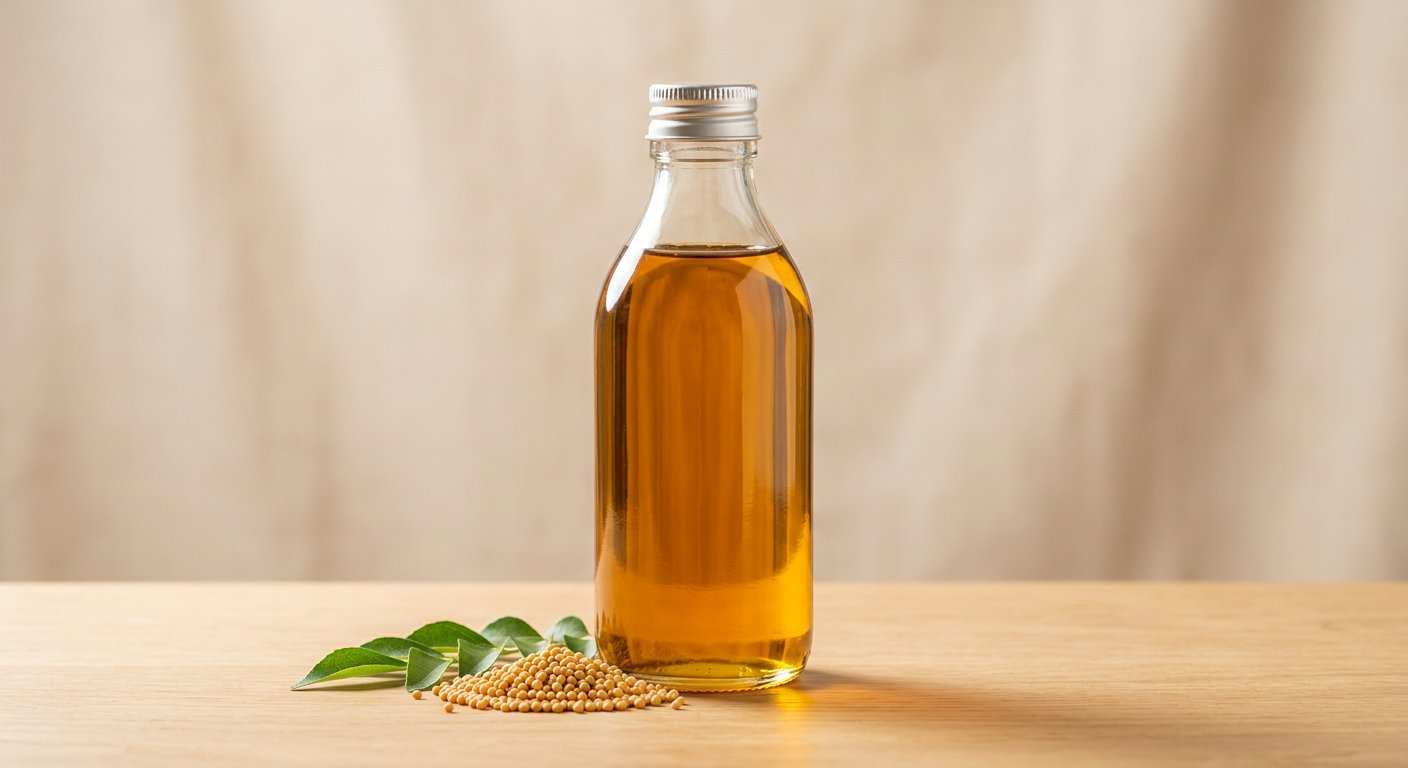
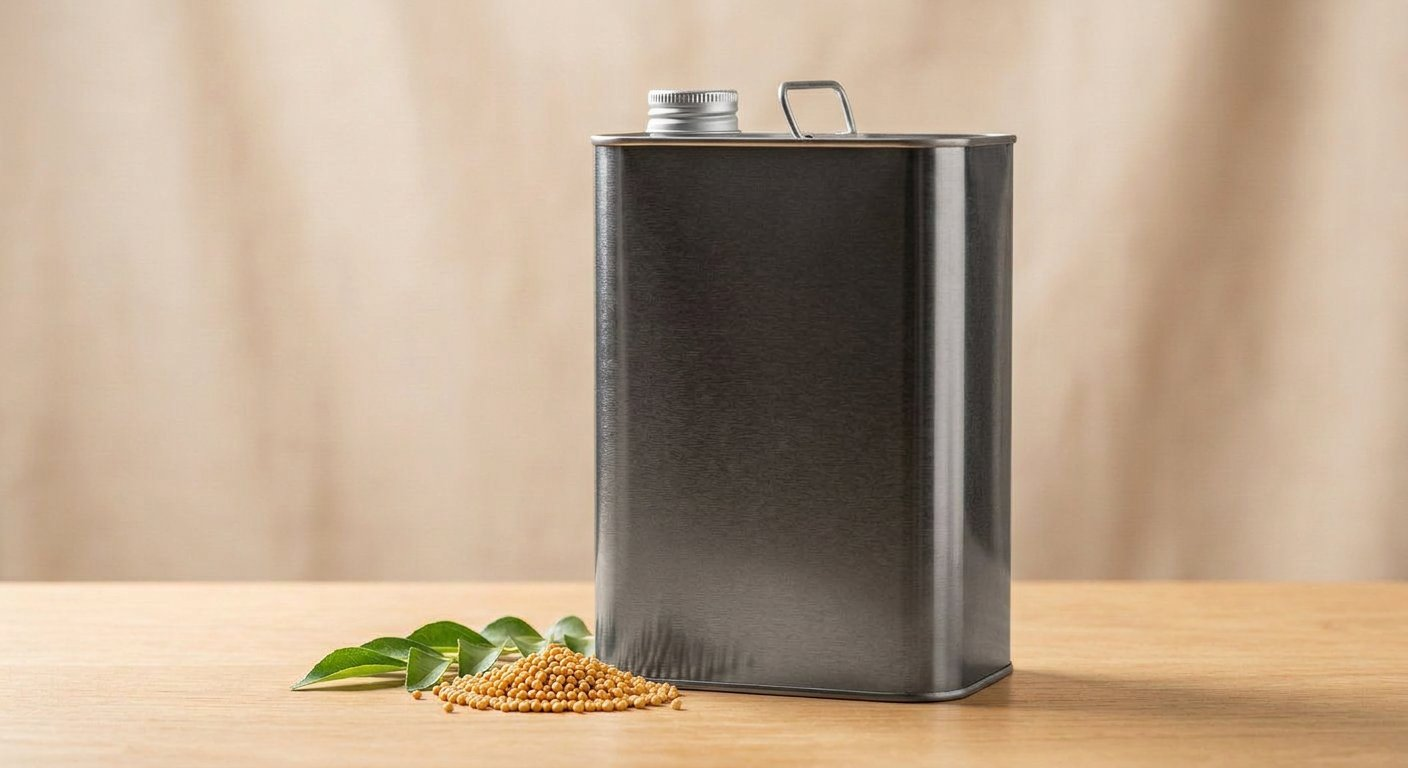
feat(images): add a herb-themed product image and correct the mustard-oil shot
Visual review of the 8 product images (all inspected in full this session) found
two content mismatches, both approved for fixing:

- The "Ayurvedic Herbs Reference Guide — 50 Herbs" card on /store was illustrated
  with mustard-oil.jpg — a cooking-oil bottle on a herbal-medicine guide. Added
  ayurvedic-herbs.jpg (dried ashwagandha, tulsi, turmeric and amla in bowls with a
  mortar and pestle, matching the existing studio style) and pointed the product at
  it. PRODUCT_IMAGES is now 9 entries and its test asserts 9.
- mustard-oil.jpg showed a small glass bottle while the listing and affiliate link
  say "Cold-Pressed Mustard Oil 5L". Regenerated as a plain unlabelled 5L metal tin
  so the image matches the pack size.

Both new files are 1408x768 (ratio 1.833), matching the rest of the set, and are
unbranded with no text or logos. Left alone: millet-combo.jpg shows five grain
varieties where the copy names three (demo listing, not misleading).

Changed region(s): [[0.3125, 0.0938, 1.0, 0.9688]]

diff --git a/src/lib/monetization/config.ts b/src/lib/monetization/config.ts
@@ -261,7 +261,9 @@ export const DIGITAL_PRODUCTS: DigitalProduct[] = [
     title: "Ayurvedic Herbs Reference Guide — 50 Herbs (Demo)",
     description: "Evidence-graded herb profiles with safety, interactions, Hindi names. Book ≠ medical advice.",
     category: "Health Guides",
-    image: "/products/mustard-oil.jpg",
+    // A herb-themed shot — previously pointed at mustard-oil.jpg (a cooking-oil
+    // bottle illustrating a herbal-medicine guide).
+    image: "/products/ayurvedic-herbs.jpg",
     price: 249,
     originalPrice: 499,
     currency: "INR",

diff --git a/src/lib/images.test.ts b/src/lib/images.test.ts
@@ -32,9 +32,9 @@ describe("getProductImageUrl", () => {
 });
 
 describe("PRODUCT_IMAGES", () => {
-  it("points at 8 real, local, non-branded product photographs", () => {
+  it("points at 9 real, local, non-branded product photographs", () => {
     const values = Object.values(PRODUCT_IMAGES);
-    expect(values).toHaveLength(8);
+    expect(values).toHaveLength(9);
     for (const v of values) {
       expect(v.startsWith("/products/")).toBe(true);
       expect(v.endsWith(".jpg")).toBe(true);

diff --git a/src/lib/images.ts b/src/lib/images.ts
@@ -21,6 +21,7 @@ export const PRODUCT_IMAGES = {
   yogaMat: "/products/yoga-mat.jpg",
   wheyProtein: "/products/whey-protein.jpg",
   mustardOil: "/products/mustard-oil.jpg",
+  ayurvedicHerbs: "/products/ayurvedic-herbs.jpg",
   diabetesGuide: "/products/diabetes-guide.jpg",
   weightManagement: "/products/weight-management.jpg",
 } as const;
